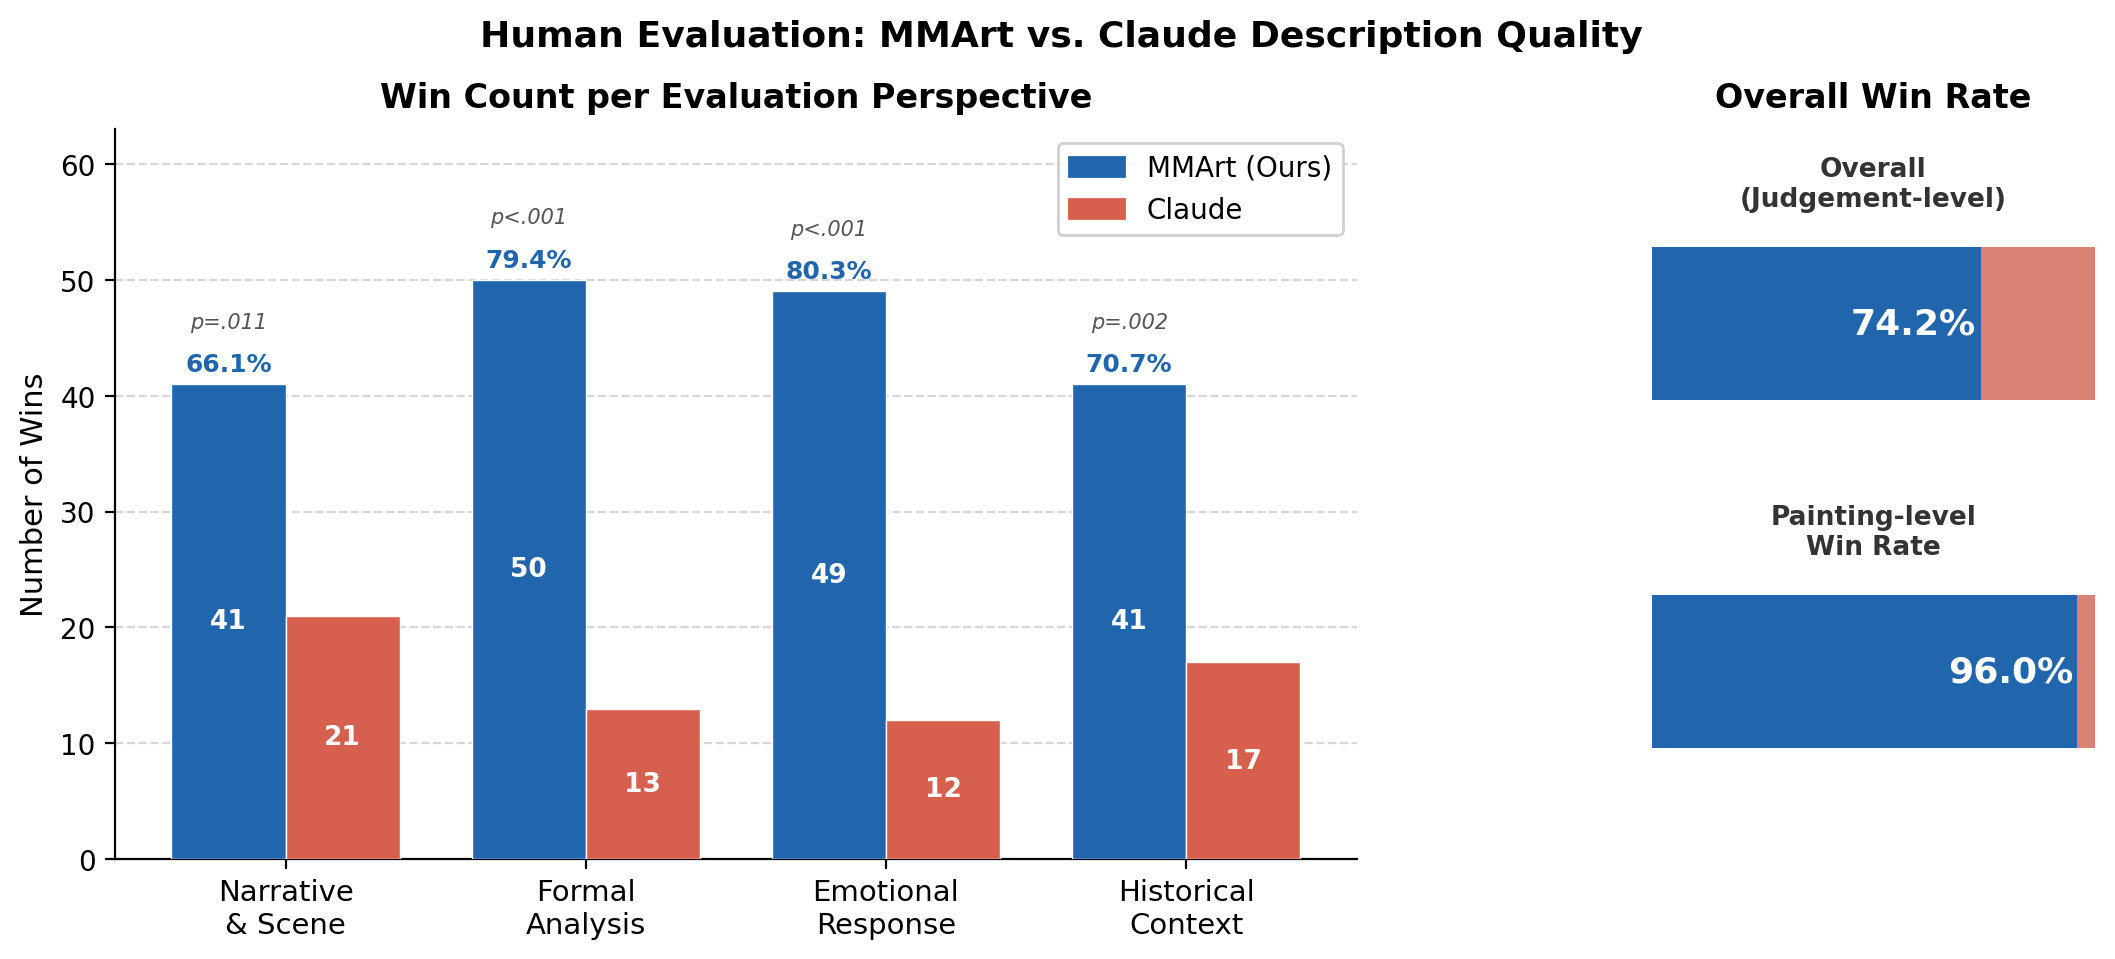
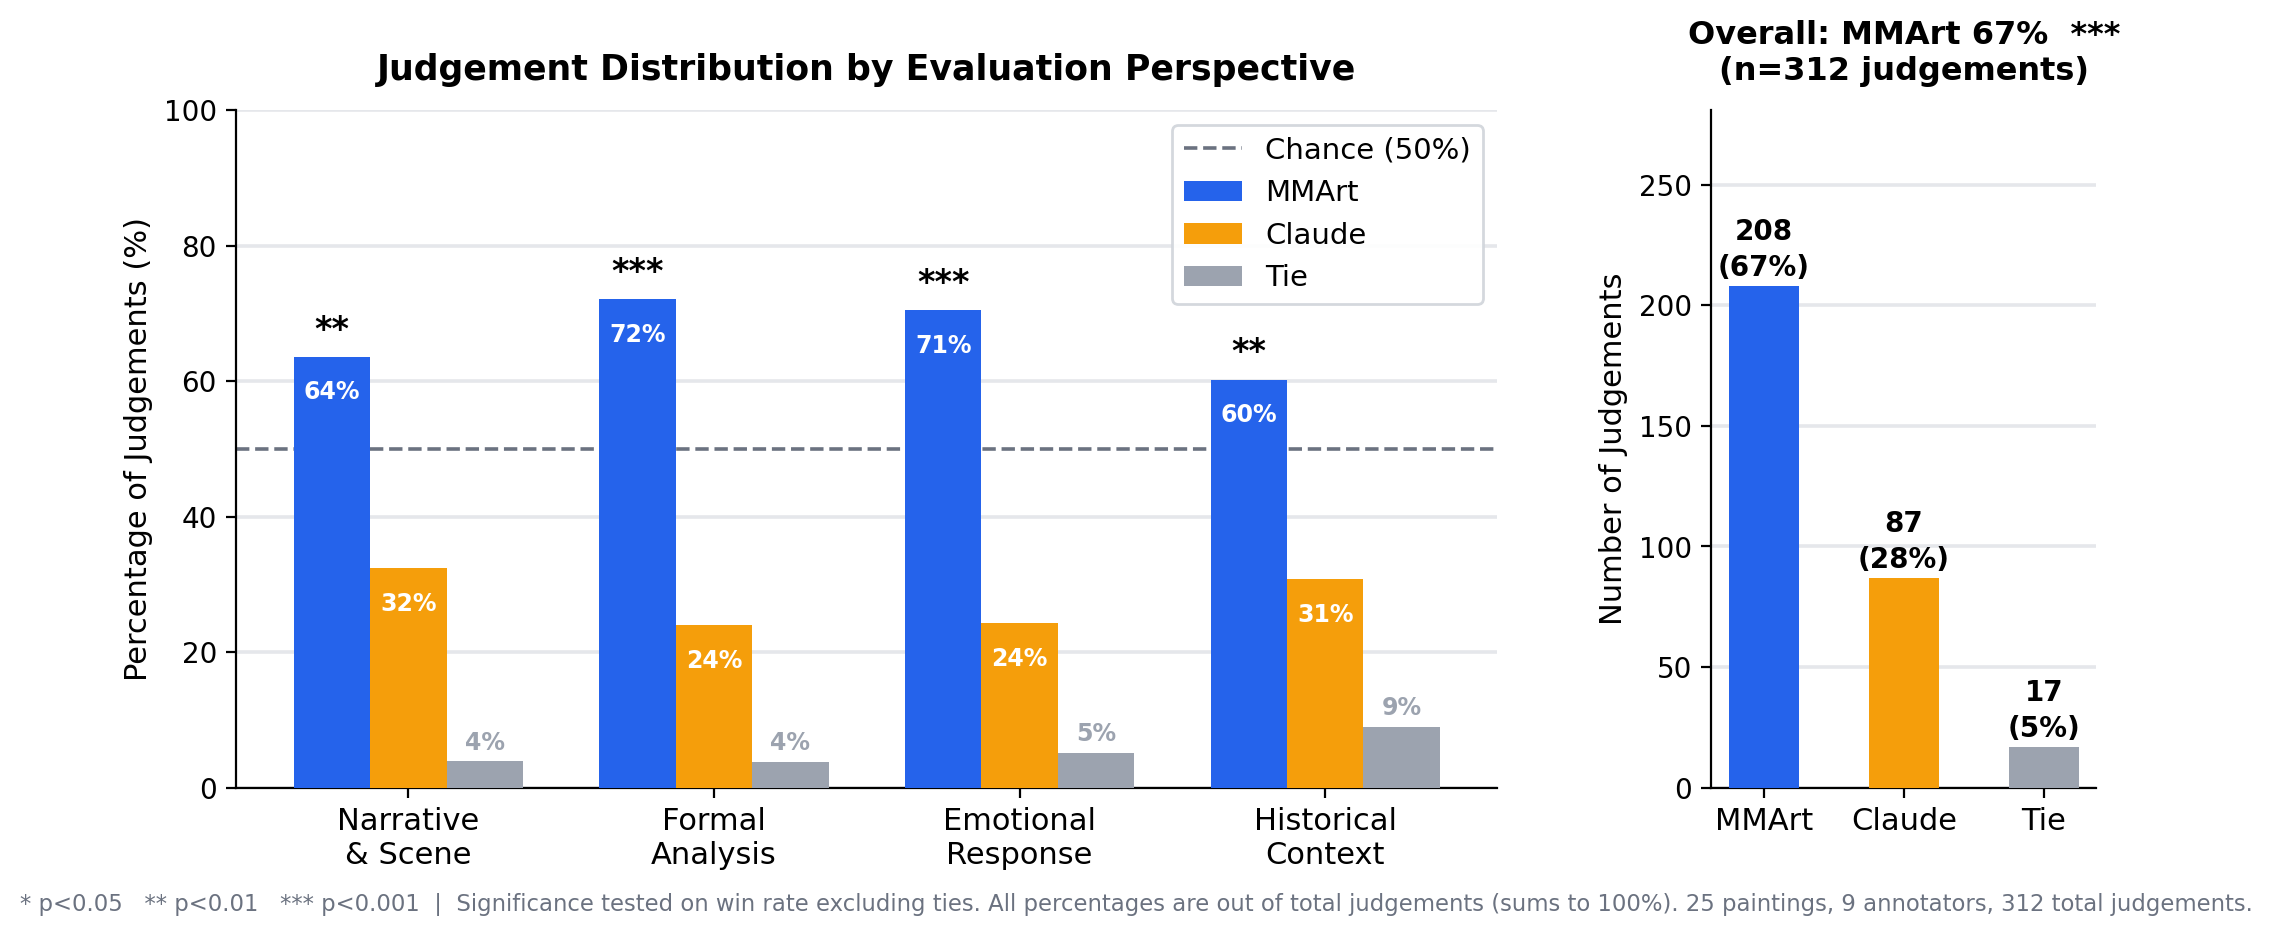
update new human eval figure

diff --git a/docs/index.html b/docs/index.html
@@ -676,11 +676,10 @@
       </p>
       <h3>Coverage</h3>
       <p>
-        The study covered <strong>25 paintings</strong> spanning <strong>18 art styles</strong>
-        (Baroque, Cubism, Expressionism, Impressionism, Romanticism, Ukiyo-e, and others),
+        The study covered <strong>25 paintings
         yielding <strong>100 image–perspective pairs</strong> (25 paintings × 4 perspectives).
         Each pair was evaluated by <strong>at least 3 annotators</strong>, resulting in
-        <strong>261 pairwise judgements</strong> in total (244 decisive + 17 ties).
+        <strong>312 pairwise judgements</strong>.
       </p>
       <figure style="text-align:center; margin: 2rem auto; max-width: 860px;">
         <img src="figures/human_eval_results.png"
@@ -688,19 +687,11 @@
              style="width:100%; border-radius:6px; box-shadow:0 2px 12px rgba(0,0,0,0.12);">
         <figcaption style="margin-top:0.75rem; font-size:0.9rem; color:#555;">
           <strong>Figure S1.</strong> Human evaluation results. Left: pairwise win counts per
-          evaluation perspective (MMArt in blue, Claude 4.5 Sonnet in red); win rates and significance
+          evaluation perspective (MMArt in blue, Claude 4.5 Sonnet in yellow, and ties in grew); win rates and significance
           p-values shown above each MMArt bar. Right: overall win rate at the judgement level
-          (74.2%) and painting level (96.0%, 24/25 paintings).
+          (67%).
         </figcaption>
       </figure>
-      <p>
-        MMArt descriptions were preferred in <strong>74.2%</strong> of decisive judgements
-        (181 vs. 63, excluding 17 ties; p&nbsp;&lt;&nbsp;0.0001, binomial test) and won
-        <strong>24 out of 25 paintings</strong> overall. The advantage is strongest on
-        <em>Formal Analysis</em> (79.4%) and <em>Emotional Response</em> (80.3%), reflecting
-        the benefit of multimodal, artist-specific knowledge. All four perspectives are
-        individually significant (p&nbsp;&lt;&nbsp;0.05).
-      </p>
     </section>
 
     <!-- ── S2: Full Prompts ── -->
@@ -1132,7 +1123,6 @@ Respond with ONLY this JSON:
       </p>
     </section>
 
-    ── S6: Per-Style Analysis ── -->
     <section id="perstyle">
       <h2>S7 &mdash; Per-Style Analysis</h2>
       <p>
